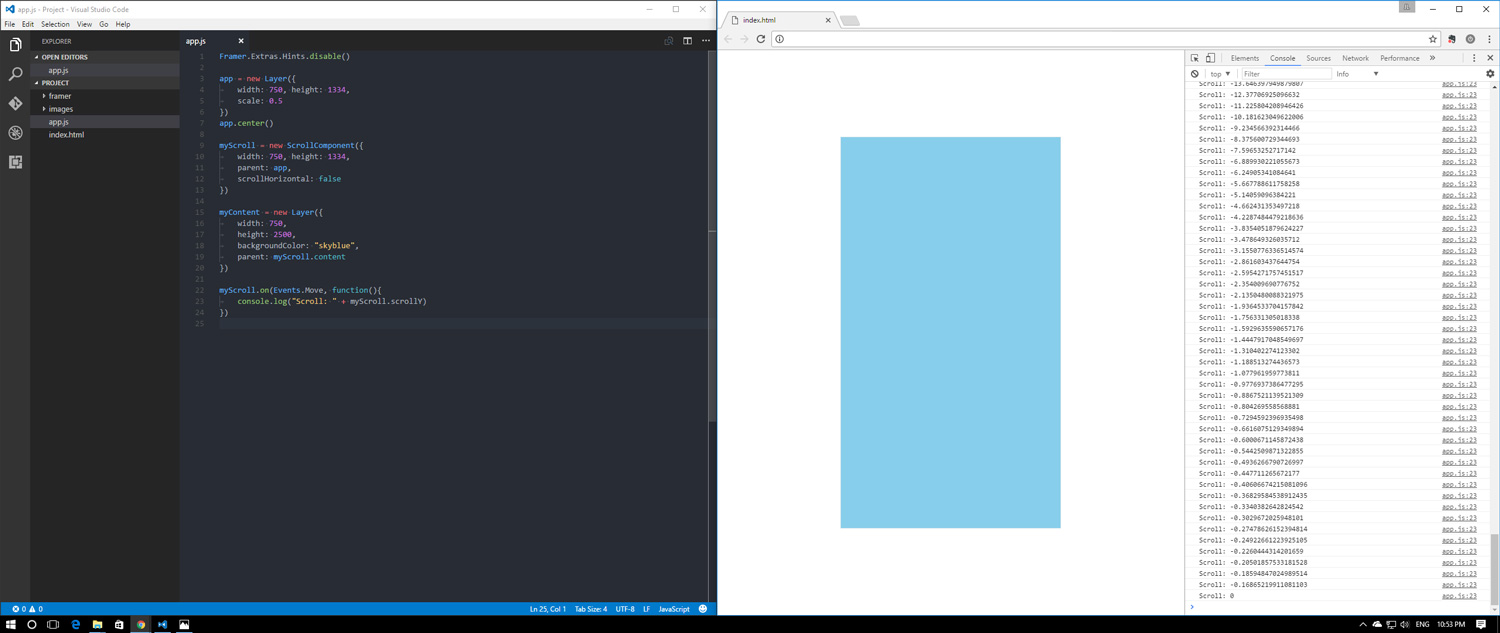
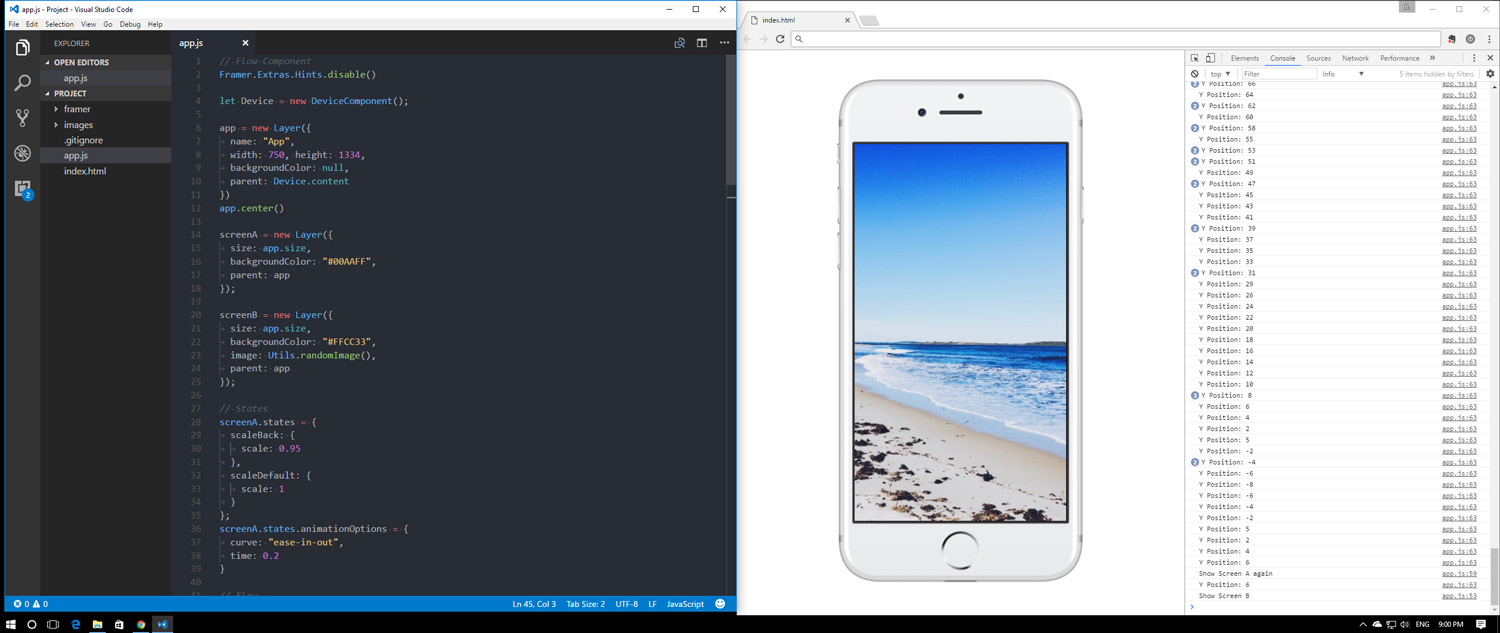
Updates to examples

diff --git a/README.md b/README.md
@@ -37,6 +37,8 @@ Tip: Set your workspace just like Framer.
 #### ToDo: Add more examples
 
 - **[Console Log](#console-log)**
+- **[Set Device](#set-device)**
+- **[Set Custom Device](#set-custom-device)**
 - **[Scroll Component](#scroll-component)**
 - **[Page Component](#page-component)**
 - **[Flow Component](#flow-component)**
@@ -53,62 +55,82 @@ print "Check, please"
 console.log("Check, please");
 ```
 
+## Set Device
+
+```javascript
+let Device = new DeviceComponent();
+Device.deviceType = "apple-iphone-7-gold";
+```
+
+## Set Custom Device
+
+```javascript
+let Device = new DeviceComponent();
+// Tablet
+Device.customize({
+	screenWidth: 720,
+	screenHeight: 1024,
+	deviceImage: "http://f.cl.ly/items/001L0v3c1f120t0p2z24/custom.png",
+	deviceImageWidth: 800,
+	deviceImageHeight: 1214
+});
+```
+
 ## Scroll Component
-> Framer Library (JS)
 ```javascript
 // Scroll Component Example
-Framer.Extras.Hints.disable()
+let Device = new DeviceComponent();
 
-app = new Layer({
+let app = new Layer({
 	name: "App",
 	width: 750, height: 1334,
-	scale: 0.5
-})
-app.center()
+	parent: Device.content
+});
+app.center();
 
-myScroll = new ScrollComponent({
+let myScroll = new ScrollComponent({
 	width: 750, height: 1334,
 	parent: app,
 	scrollHorizontal: false
-})
+});
 
-placeholderContent = new Layer({
-	width: 750,
-	height: 2500,
+let placeholderContent = new Layer({
+	width: 750, height: 2500,
 	backgroundColor: "skyblue",
 	parent: myScroll.content
-})
+});
 
 myScroll.on(Events.Move, function(){
 	console.log("Scroll: " + myScroll.scrollY)
-})
+});
 ```
 [Back to top](#notes-and-snippets)
 
 ## Page Component
-> Framer Library (JS)
 ```javascript
-// Page Component
-var pageCount = 8;
-var gutter = 60;
+// Page Component Example
+let Device = new DeviceComponent();
 
-app = new Layer({
+let pageCount = 8;
+let gutter = 20;
+
+let app = new Layer({
 	name: "App",
 	width: 750, height: 1334,
-	scale: 0.5,
-	backgroundColor: null
+	backgroundColor: null,
+	parent: Device.content
 })
 app.center()
 
-myPageComponent = new PageComponent({
+let myPageComponent = new PageComponent({
 	width: 750, height: 1334,
 	parent: app,
 	scrollVertical: false,
 	clip: false
 })
 
-for (var i = 0; i < pageCount; i++) {
-	page = new Layer({
+for (let i = 0; i < pageCount; i++) {
+	let page = new Layer({
 		name: "Page " + i,
 		size: myPageComponent.size,
 		x: (myPageComponent.width + gutter) * i,
@@ -125,26 +147,27 @@ for (var i = 0; i < pageCount; i++) {
 [Back to top](#notes-and-snippets)
 
 ## Flow Component
-> Framer Library (JS)
 ```javascript
 // Flow Component Example
 Framer.Extras.Hints.disable()
 
-app = new Layer({
+let Device = new DeviceComponent();
+
+let app = new Layer({
 	name: "App",
 	width: 750, height: 1334,
-	scale: 0.5,
-	backgroundColor: null
+	backgroundColor: null,
+	parent: Device.content
 })
 app.center()
 
-screenA = new Layer({
+let screenA = new Layer({
 	size: app.size,
 	backgroundColor: "#00AAFF",
 	parent: app
 });
 
-screenB = new Layer({
+let screenB = new Layer({
 	size: app.size,
 	backgroundColor: "#FFCC33",
 	image: Utils.randomImage(),
@@ -166,7 +189,7 @@ screenA.states.animationOptions = {
 }
 
 // Flow
-flow = new FlowComponent({
+let flow = new FlowComponent({
 	size: app.size,
 	parent: app
 })
